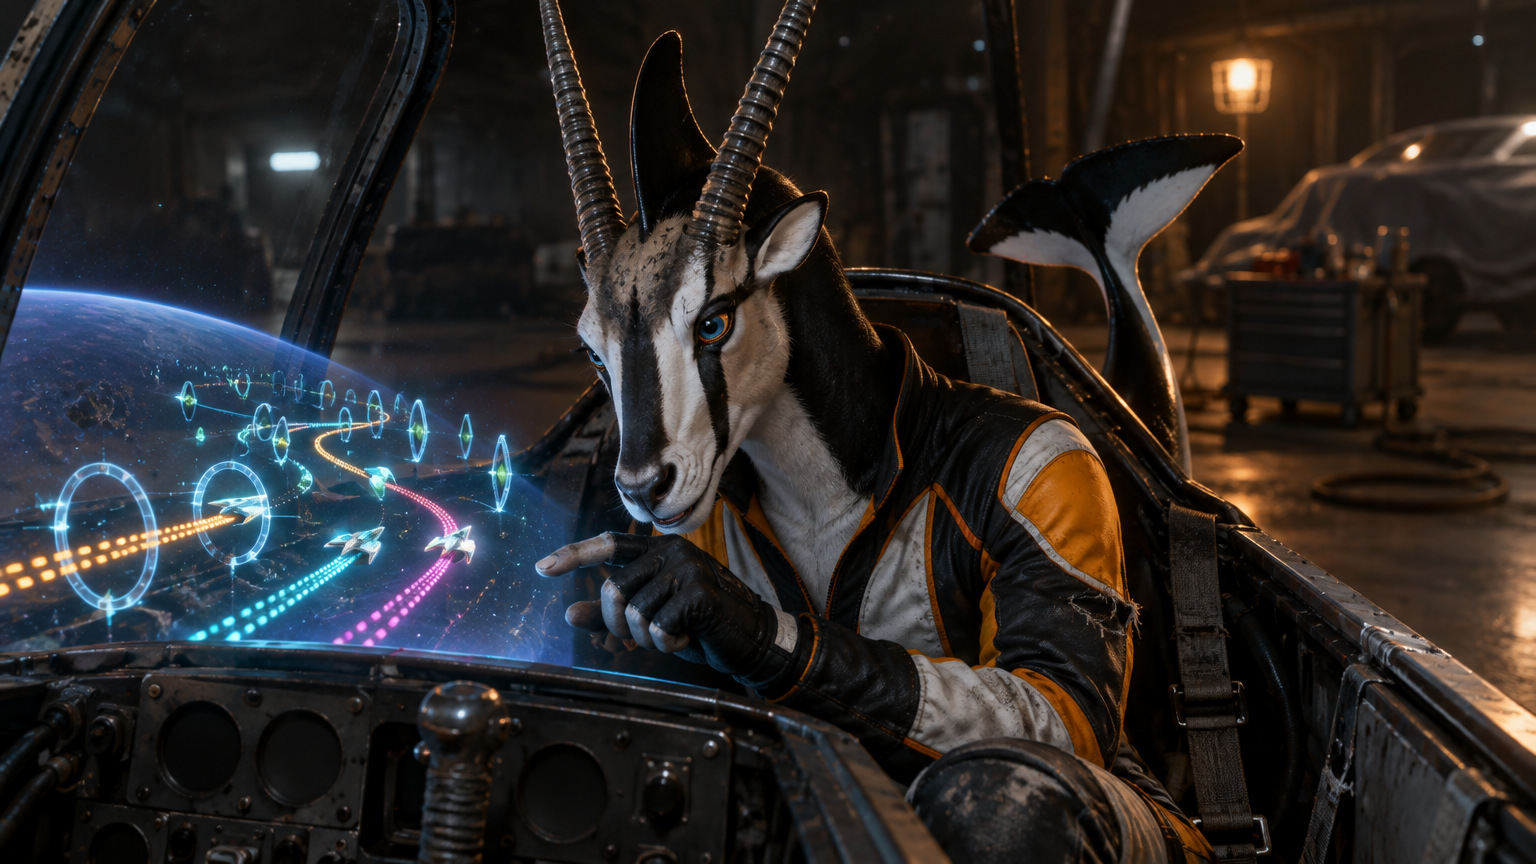
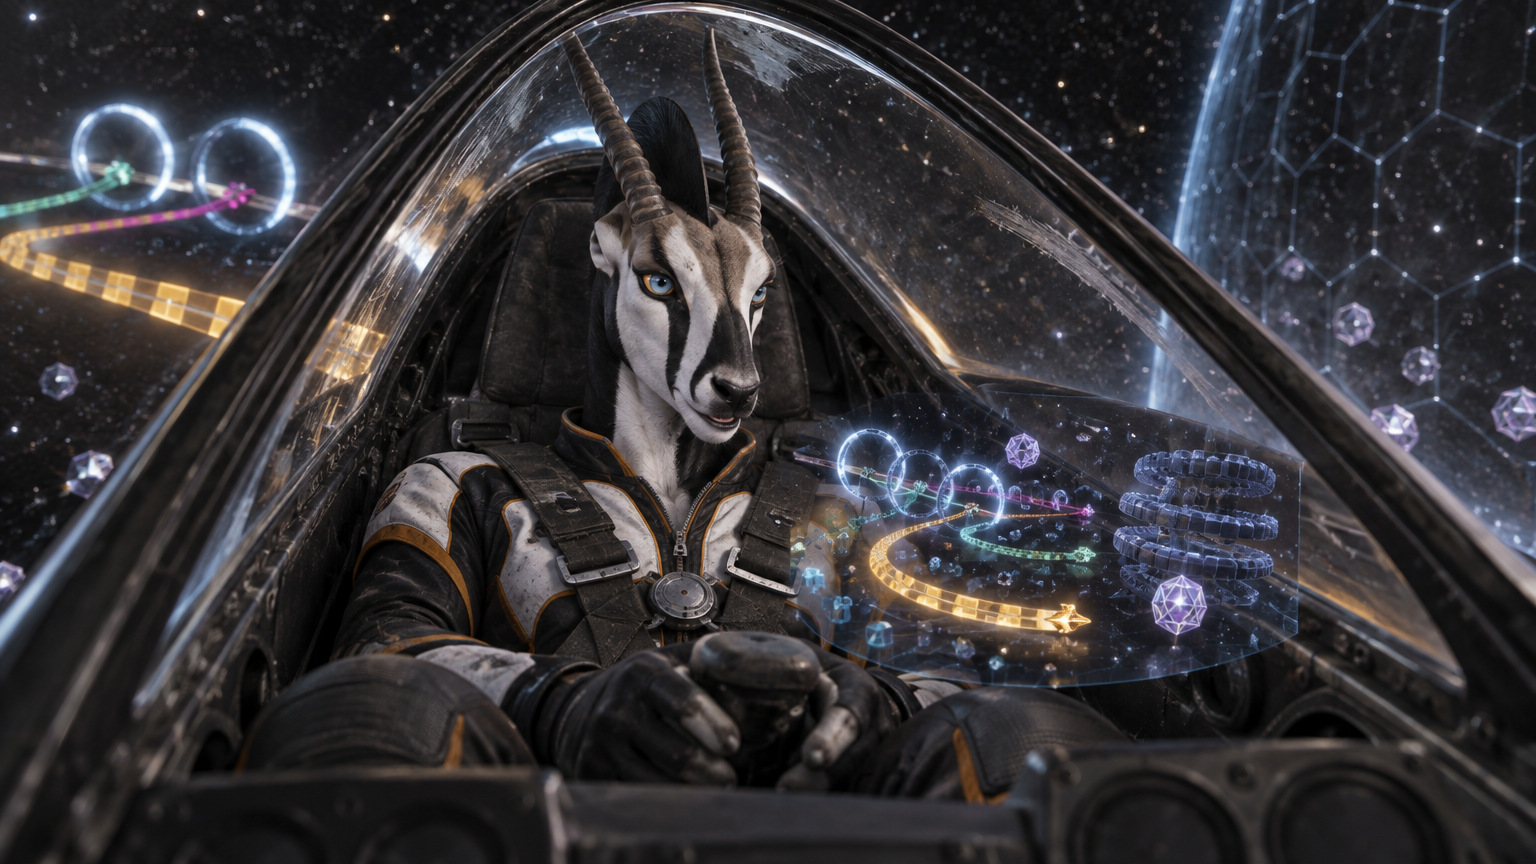
feat(pilots): Flux's scene started again: in flight under a shut canopy that clears the horns
Garrett's notes on the first scene (2026-11-11): "a tail that doesn't make sense
to be outside a vessel, the hologram is palced weird, the horn clearance is not
there if the cockpit closes, which is doesn't look like it can. it is in a car
garage". The new scene is a racer mid-heat in a one-seat craft built round its
pilot: the canopy is shut and its whole arch is in the picture with both horn
tips under the glass, all of Flux is inside, the display floats over the panel
in front of the seat, and outside the glass is the course the display shows
small (rings, ribbons of bricks, the wall of six-sided panes), written from the
real frames of the game. Fifth painting; the record says what the first four
taught. Avatar re-cut from the new close-up (the horns whole, the fin between
them).

refs.py: the reference painter is GPT Image 2.6 (Sunburst) through Weave. Its
predecessor, the one that takes a mask, is not in the workspace's Weave plan
(a quote call said so; nothing was run). 2.6 takes no mask, so a patch is asked
for in words and the blend still keeps every pixel outside the region from the
original. Jugger's patch says that the old display's light goes with it.

No C# changed, so the reference compile was not run. scene.py, refs.py, bust.py,
creator.py and blind.py self-tests pass; the avatar writer's --check passes.

Affects: the colour grade ledger (Docs/VesselModels/colour_grade.json), written
again by colour_grade.py for the one avatar that changed.
[…]

diff --git a/Tools/Build/pilot_art/scenes/Flux.py b/Tools/Build/pilot_art/scenes/Flux.py
@@ -1,35 +1,50 @@
-"""Flux: oryx and orca, a racer. One of the few scenes that show live play in a hologram with depth (Garrett,
-2026-11-11: "I want to see some where the pilot's are on the bridge of the ark or in a vessel. and they are looking
-at a 3D holographic display ... that 3d rendering should look like gameplay footage"): in the cockpit after
-practice, replaying the heat over the instruments and finding the ring where the time went."""
+"""Flux: oryx and orca, a racer, in flight with the canopy shut. Started again after Garrett's notes on the first
+scene (2026-11-11, 23:01 UTC): "a tail that doesn't make sense to be outside a vessel, the hologram is palced weird,
+the horn clearance is not there if the cockpit closes, which is doesn't look like it can. it is in a car garage".
+So: the craft is built round its pilot (a canopy tall enough for the horns, and shut), all of Flux is inside it, the
+display stands where a racer's eyes fall, and what is outside the glass is the course itself, the same one the
+display shows small (his standard for a window: "the dual perspectives of jugger"). Five paintings: the first four
+cut the horn tips with the top of the frame whatever the shot said about them ("both horns are whole", a height in
+fractions, the eyes at mid-height, a seat laid back). The fifth names the whole ARCH OF THE CANOPY as what is in the
+picture, rim to rim, and the figure "from the tips of the horns down to the gloved hands": the horns came whole, with
+glass above them (LESSONS 77)."""
 SCENE = dict(
-    treatment="Cockpit portrait from the nose, lit from below by a replay",
-    shot=("A cockpit photograph taken from the nose of a small craft, looking back over the instrument panel "
-          "through the raised canopy: a 35mm lens, the pilot leaning toward the camera over a small display and "
-          "lit by it from below, a dim bay behind, out of focus. Clean colour, fine grain. The display is as sharp "
-          "as the face. The figure is seen from the chest up, seated."),
+    treatment="Onboard camera under a shut canopy, the course streaming behind",
+    shot=("An onboard photograph from a small camera fixed at the nose end of the long cockpit, looking back down "
+          "its whole length at the pilot in flight: a wide 24mm lens. The whole arch of the canopy is in the "
+          "picture, from rim to rim, its dark metal frame closing over the top, and under it the whole upper "
+          "figure, from the tips of the horns down to the gloved hands on the stick. The seat is laid far back, as "
+          "in a racing glider, and the figure half lies in it; the horns sweep back from the brow over the "
+          "headrest, and there is clear glass between their tips and the frame."),
+    frame=("The frame is wide, sixteen by nine. The head is sharp and lit, the whole face easy to read, the place "
+           "behind it soft."),
     side="right",
     chart=("volume", "race"),
-    source="profession: a racer replays the practice heat in the cockpit, looking for the ring where the time went",
-    seen=("the face is white with a black blaze down the nose and a black band from each eye to the jaw; the two "
-          "horns are slender, ringed and as long as the head, rising straight up and back; the orca's black fin "
-          "stands at the crown between them, and a white patch sweeps back from behind each eye",),
-    doing=("Flux sits in the open cockpit with the harness unbuckled, leaning forward over the instruments, one "
-           "elbow on the cockpit's rim, and is replaying the last heat in the small display. One gloved finger is "
-           "held a hair's breadth from the place where the amber gold trail swings wide of a ring. The head is "
-           "tilted, the ears are pricked forward and the lips a little parted: bright, open and curious. The face "
-           "is turned three-quarters to the camera, both eyes on the display. The tall horns rise clear through "
-           "the open canopy, and the orca fluke shows behind one shoulder."),
-    place=("The cockpit of a slim one-seat racing craft, parked in a dim pit bay at night with its canopy raised: "
-           "a worn seat with a frayed harness, a scuffed panel of blank dark dials and plain switches, a control "
-           "stick wound with tape. Above the panel, between the pilot and the windscreen frame, floats {chart} The "
-           "display is no bigger than a melon. Beyond the canopy, out of focus, the bay: a tool cart, a coiled "
-           "hose, the nose of another craft under a dust sheet, one caged lamp. The bay is empty of people."),
-    light=("The display is the main light: it lights the long face from below and in front, amber, teal and "
-           "magenta on the white of the muzzle, and puts a small bright point in each eye. The caged lamp far "
-           "behind rims the horns, the fin and the shoulders in dull orange."),
-    wear=("The racing jacket is unzipped to the chest and its collar is dark with sweat; one colour-block patch is "
-          "half unstitched; the gloves are worn pale at the fingertips; grit lies in the fur of the brow where "
-          "goggles sat; the knee pads are scuffed."),
-    close=(480, 0, 1100, 620),
+    source="profession: a racer mid-heat, just through a ring, checking the display for the two behind",
+    swap=((", rising behind one shoulder", ""),),
+    carry="it lies along the seat behind the hips, below the cockpit's rim, and none of it is in this picture",
+    seen=("the orca's black fin stands at the crown between the two horns, half their height",
+          "the irises are pale ice blue, and the amber is only a hair-thin line round each"),
+    doing=("Flux is racing and has just come through a ring. Flux half lies in the seat with the head against the "
+           "headrest, both gloved hands on the control stick and the harness buckled tight across the chest, and "
+           "looks at the small display that floats over the panel ahead, the long face three-quarters to the "
+           "camera, to see where the other two are: both eyes on it, the lips a little parted, bright, open and "
+           "curious."),
+    place=("The cockpit of a slim one-seat racing craft built round its pilot, in flight: a worn seat laid far back "
+           "with a long headrest, a scuffed panel of blank dark dials, a control stick wound with tape. The canopy "
+           "is one long narrow teardrop of clear glass, shut and latched all round, and it runs back over the seat "
+           "in a ridge made for the horns: they lie inside it, pointing toward the tail, with a hand's width of "
+           "clear glass above them. Over the panel, straight ahead of the seat and inside the glass, floats {chart} "
+           "The display is no bigger than a melon; all of it is in the picture, and its edge touches nothing. "
+           "Outside the glass is the course itself: black space sown with fine white dust, and far off a wall of "
+           "six-sided panes. The craft's own trail streams back from its tail, a curving ribbon of amber gold "
+           "bricks of light, each as big as a door. Two thick rings of pale blue-white light stand in the dark "
+           "behind, already passed; far back two more ribbons, one jade teal and one ruby magenta, curve toward "
+           "them, each led by a small bright craft."),
+    light=("The display lights the long face from below and in front, amber, teal and magenta on the white of the "
+           "muzzle. The last ring's pale light still rims the horns, the fin and one shoulder through the glass."),
+    wear=("The racing jacket's collar is dark with sweat; the gloves are worn pale at the fingertips; the glass is "
+          "scratched and carries one long smear."),
+    close=(460, 8, 920, 468),
+    refs=("sea_flora_approach", "sea_flora_through", "sea_flora_crystal"),
 )

diff --git a/Tools/Build/pilot_art/refs.py b/Tools/Build/pilot_art/refs.py
@@ -9,8 +9,8 @@ generating? it seems like we will need something like this if we want the same c
 art as well". And (23:03 UTC): "i connected weave. use amoebius etc. to make and send screenshots. you can also use
 froglet.games".
 
-The painter of every bust and scene so far took words only (.claude/skills/pilot-art/references/PAINTERS.md). The
-same painter, run through Weave, also takes pictures and a mask. So:
+The painter of every bust and scene so far took words only (.claude/skills/pilot-art/references/PAINTERS.md). Its
+successor, run through Weave, also takes pictures (PAINTER). So:
 
   * THE LIBRARY (Docs/Pilots/art/refs, refs.json): real frames of the game and views of its models, each with its
     role, the words the painter is told about it (`shows`) and where it came from (`source`). A frame is a real
@@ -21,9 +21,10 @@ same painter, run through Weave, also takes pictures and a mask. So:
   * A RECORD'S refs=(...): the library pictures that go with the scene, whatever is outside its window or in its
     display.
   * A PATCH: a record's patch=dict(what=, ask=, edit=, keep=, refs=). Part of a finished scene is painted again and
-    the rest is kept. The painter gets the scene, a mask and the references, and `apply` takes from its answer only
-    the pixels inside the mask (edit, less keep), feathered inward. A painter given a mask still repaints the whole
-    picture a little, faces included, so the pilot is never taken from its answer.
+    the rest is kept. The painter gets the scene, the references and what to change, and `apply` takes from its
+    answer only the pixels inside the record's region (edit, less keep), feathered inward. A painter asked to
+    change one thing still repaints the whole picture a little, faces included, so the pilot is never taken from
+    its answer. The region is also written as a mask (`mask`): a painter that takes one is given it.
   * LINKS, NOT UPLOADS. The painter fetches each picture by its link. The repository is public, so a picture that is
     committed and pushed has one (raw_url), and `input` refuses a picture that is not pushed. A link names the
     repository, which the words never do: the game's own frames were asked for (above).
@@ -34,7 +35,7 @@ same painter, run through Weave, also takes pictures and a mask. So:
     python3 Tools/Build/pilot_art/refs.py likeness <WORD> [l t r b]    # cut a pilot's likeness from their scene
     python3 Tools/Build/pilot_art/refs.py mask <WORD> [view.jpg]       # write a patch's mask (and a view of it)
     python3 Tools/Build/pilot_art/refs.py prompt <WORD> [--patch]      # the words the painter gets
-    python3 Tools/Build/pilot_art/refs.py input <WORD> [--patch]       # the run's input as JSON, with its links
+    python3 Tools/Build/pilot_art/refs.py input <WORD> [--patch] [--size W H]   # the run's input, with its links
     python3 Tools/Build/pilot_art/refs.py apply <WORD> <painted file>  # put a patch into the scene
     python3 Tools/Build/pilot_art/refs.py --self-test
 """
@@ -58,10 +59,13 @@ PATCHES = f"{scene.SCENES}/patches"
 REPO = "froglet-studio/cosmic-shore"   # public: a pushed picture answers at RAW/<commit>/<path> without a token
 RAW = f"https://raw.githubusercontent.com/{REPO}"
 
-# The painter: the one that painted every scene (scene.FRAME is what it returns), run where it takes pictures.
-# `quality` and the variant are the defaults the words-only route used; the prompt is never rewritten for us.
-PAINTER = dict(name="GPT Image 2.5 (Sunburst), through Weave", id="2db90e64-51dd-45b2-870a-66d19a81118e", most=16,
-               params=dict(model="Sunburst", quality="high", output_format="png", weave_enhance_prompt=False))
+# The painter. Every scene was painted by GPT Image 2.5 Sunburst from words. On Weave that model also takes a mask,
+# but the studio's Weave plan does not include it (asked 2026-11-12: "This model is not available on the Free
+# plan"). Its successor is included, takes up to sixteen pictures and no mask, and is quoted at 11 credits a run at
+# this variant and quality, whatever the size (3 at quality medium). `size` is the key its contract gives the
+# picture's size; `mask` is the key of a painter that takes one, None for one that does not.
+PAINTER = dict(name="GPT Image 2.6 (Sunburst), through Weave", id="96f53e1c-465d-44d6-90fd-38bcb9fada66", most=16,
+               size="size", mask=None, params=dict(model="Sunburst", quality="high", output_format="png"))
 
 # What a painter is told about each kind of reference. {pictures} is "Picture 3" or "Pictures 3 to 5", {shows} the
 # library's own words for them.
@@ -77,9 +81,9 @@ LIKENESS_LINE = ("Picture {n} is {name}, photographed before: the same person. T
                  "its shape, its markings, its colours and its eyes, and the clothes are those clothes. Take the "
                  "person from it and nothing else: the place, the pose, the framing and the light are new, as "
                  "written above.")
-PATCH_HEAD = ("Edit this photograph, picture 1. Change only what lies inside the masked area: {what}. Everything "
-              "outside the mask stays exactly as it is: {name}, the face, the hands, the clothes, the room and "
-              "every light that falls on them.")
+PATCH_HEAD = ("Edit this photograph, picture 1. Change only {what}. Everything else stays exactly as it is, in the "
+              "same place and at the same size: {name}, the face, the hands, the clothes, the room and every light "
+              "that falls on them.")
 PATCH_FOOT = ("It stays one photograph taken with a real camera: the new parts have the grain, the focus and the "
               "exposure of the rest and meet it without a seam. Nothing in the picture carries writing, numbers or "
               "a symbol.")
@@ -450,10 +454,10 @@ def run_input(word, patch=False, size=None, commit=None):
         raise ValueError(f"{len(pics)} pictures: the painter takes {PAINTER['most']}")
     commit = commit or pushed_commit()
     size = size or scene.FRAME
-    given = dict(prompt=prompt(w, patch), images=[raw_url(p, commit) for _, p in pics],
-                 image_size=dict(width=size[0], height=size[1]), **PAINTER["params"])
-    if patch:
-        given["mask"] = raw_url(mask_path(w), commit)
+    given = dict(prompt=prompt(w, patch), images=[raw_url(p, commit) for _, p in pics], **PAINTER["params"])
+    given[PAINTER["size"]] = dict(width=size[0], height=size[1])
+    if patch and PAINTER["mask"]:
+        given[PAINTER["mask"]] = raw_url(mask_path(w), commit)
     return dict(id=PAINTER["id"], input=given)
 
 
@@ -598,7 +602,8 @@ def main():
             print(prompt(args[1], "--patch" in args))
             return 0
         if args[0] == "input" and len(args) >= 2:
-            print(json.dumps(run_input(args[1], "--patch" in args), indent=1, ensure_ascii=False))
+            size = tuple(int(v) for v in args[args.index("--size") + 1:][:2]) if "--size" in args else None
+            print(json.dumps(run_input(args[1], "--patch" in args, size), indent=1, ensure_ascii=False))
             return 0
         if args[0] == "apply" and len(args) == 3:
             note = apply(args[1], args[2])

diff --git a/Tools/Build/pilot_art/scenes/Jugger.py b/Tools/Build/pilot_art/scenes/Jugger.py
@@ -52,7 +52,8 @@ SCENE = dict(
              "craft flying guard, and a swarm of tiny violet shards streams toward the ship. The window frames "
              "stay where they are. The glass is thick and scratched and carries faint reflections of the bridge."
              "\n\n"
-             "THE DISPLAY. Over the well stands one closed dome of light, like a model under a glass bell: its "
+             "THE DISPLAY. The old display is gone, and all of its light with it. Over the well stands one closed "
+             "dome of light, like a model under a glass bell: its "
              "round foot sits inside the brass rail, its top is lower than the window sills, and no part of it "
              "reaches a window, a console or {name}. Everything it shows is inside it, and nothing glows outside "
              "its edge. It is a hologram with real depth: a small solid-looking scene with a near side and a far "
